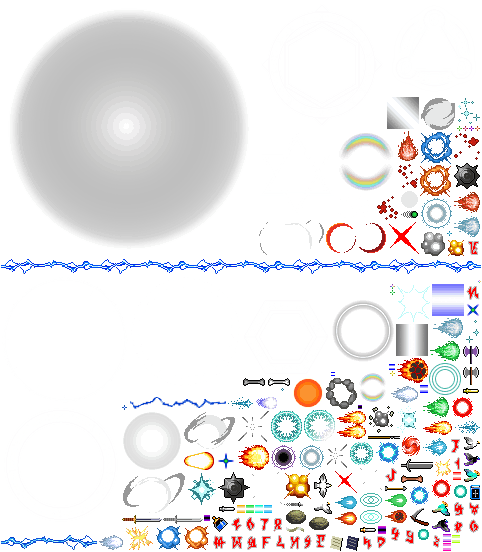
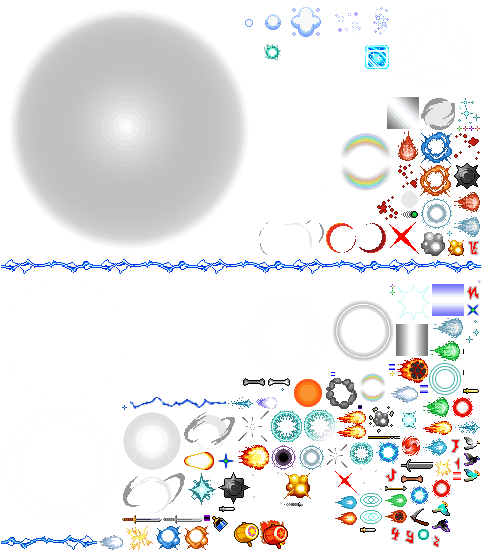
캐릭터 셀렉트 기능, 적 사망시 경험치 드랍 스킬 이펙트 편집
스킬 이펙트 편집, 적 죽을때 경험치 보석 드랍, 캐릭터 셀렉트 기능(불,얼음 전기) 추가

diff --git a/Manager/Item_Manager.py b/Manager/Item_Manager.py
@@ -1,6 +1,73 @@
 from pico2d import *
 
 
+class Item:
+    Name = None
+    x = 0
+    y = 0
+    width = 12
+    height = 18
+    pass
+
+class ExpStone(Item):
+    Type = None
+    Exp = None
+    Magnet = None
+    def __init__(self,Enemy_x=0, Enemy_y=0):
+        self.Magnet = False
+        self.x = Enemy_x
+        self.y = Enemy_y
+        self.Name = "EXP_STONE"
+        match self.Type:
+            case "GREEN":
+                self.Exp = 1
+            case "BLUE":
+                self.Exp = 5
+            case "RED":
+                self.Exp = 10
+            case "YEELOW":
+                self.Exp = 20
+
+    def Magnet_Player(self, Player_x, Player_y):
+        if self.Magnet:
+            pass
+
+    def Draw(self, Item_Image):
+        match self.Type:
+            case "GREEN":
+                print("그려짐")
+                Item_Image.clip_draw(51, 624- 96 - 12, 9,12,self.x,self.y,self.width, self.height)
+            case "BLUE":
+                Item_Image.clip_draw(51, 624 - 36 - 12, 9, 12, self.x, self.y,self.width, self.height)
+
+        pass
+
+class Item_manager:
+    Items = []
+    Items_image = None
+    expStone = ExpStone()
+    def Create_EXP_Stone(self, Enemy_name, Enemy_x, Enemy_y):
+        newExpStone = ExpStone()
+        if Enemy_name == "Waddle_dee":
+            newExpStone.Type = "GREEN"
+        elif Enemy_name == "kinght":
+            newExpStone.Type = "BLUE"
+
+        newExpStone.__init__(Enemy_x,Enemy_y)
+        self.Items.append(newExpStone)
+        del newExpStone
+
+    def Draw(self):
+        for item in self.Items:
+            match item.Name:
+                case "EXP_STONE":
+                    self.expStone = item
+                    self.expStone.Draw(self.Items_image)
+
+
+
+
+
 
 class Missile:
     name = "None"
@@ -25,6 +92,7 @@ class Missile:
     pass
 
 class ICE(Missile): # 가까운적 찾고 그냥 가로로 일직선 공격
+    A = 4
     def __init__(self, level=0, invers=False, charater_x=0, charater_y=0):
         self.x = charater_x
         self.y = charater_y
@@ -32,14 +100,14 @@ class ICE(Missile): # 가까운적 찾고 그냥 가로로 일직선 공격
         self.height = 24
         self.BulletRange = 1.0
         self.BulletSpeed = 5.0  # 투사채 속도
+        self.Attack = 10
         if invers:
             self.x_dir = 1
-        else :
+        else:
             self.x_dir = -1
             pass
 
         if level == 1:
-            self.Attack = 3
             self.DurationTime = 4.0
             pass
         elif level == 2:
@@ -54,10 +122,46 @@ class ICE(Missile): # 가까운적 찾고 그냥 가로로 일직선 공격
             del self
 
     def draw(self, Image):
-        Image.clip_draw(719, 616-41 - 24, 24,24,self.x,self.y, 24 * self.BulletRange, 24 * self.BulletRange)
+        Image.clip_draw(365, 552-45 - 24, 24,24,self.x,self.y, 24 * self.BulletRange, 24 * self.BulletRange)
         pass
 
 class HAMMER(Missile): # 해머 공격 == 뱀서의 도끼 공격
+    UpTime = None
+    def __init__(self, level=0, invers=False, charater_x=0, charater_y=0):
+        self.x = charater_x
+        self.y = charater_y
+        self.width = 24
+        self.height = 24
+        self.BulletRange = 1.0
+        self.BulletSpeed = 5.0  # 투사채 속도
+        self.Attack = 13
+        self.UpTime = 5.0
+        if invers:
+            self.x_dir = 1
+        else:
+            self.x_dir = -1
+            pass
+
+        if level == 1:
+            self.DurationTime = 4.0
+            pass
+        elif level == 2:
+            pass
+        elif level == 3:
+            pass
+
+
+
+def Move(self, MapEndLeft=0, MapEndRight=1280, MapEndBottom=720, MapEndTop=0):
+    if self.UpTime:
+        pass
+
+
+    self.x += self.x_dir
+    if self.x > MapEndRight:
+        del self
+    elif self.x < MapEndLeft:
+        del self
     pass
 
 
@@ -107,6 +211,7 @@ class Weapon:
                 new_missile.name = self.name
                 new_missile.__init__(self.level,charater_invers,charater_x,charater_y)
                 missile_manager.missiles.append(new_missile)
+                del new_missile
             elif self.name == "HAMMER":
                 pass
             self.shotTimer = 0.0

diff --git a/play_state.py b/play_state.py
@@ -1,14 +1,16 @@
 from pico2d import *
 import game_framework
 import random
-import Manager.Item_Manager
+import CharaterSelect_state
 from Character import Player
 from Character import Enemy
 from Manager.Item_Manager import Missile_manager
 from Manager.Item_Manager import Weapon
+from Manager.Item_Manager import Item_manager
 
 
 missile_manager = Missile_manager()
+item_manager = Item_manager()
 Weapons = []
 
 max_col = 40
@@ -25,16 +27,16 @@ enemy_responTimer = 0
 
 
 def enter():
-    global BG_tile_image, tiles, kirby, Enemys, enemy_image, UI_image, Weapons
-
+    global BG_tile_image, tiles, kirby, Enemys, enemy_image, UI_image, Weapons,item_manager
     BG_tile_image = load_image("assets/img/tilesets/ForestTexturePacked.png")
     UI_image = load_image("assets/Ui/UI.png")
-    kirby.image = load_image("assets/img/Kirby/Ice_Kirby_empty.png")
     enemy_image= load_image("assets/img/Enemy/Normal_Enemy.png")
-    missile_manager.missiles_image = load_image("assets/img/Kirby/Ice_Kirby_empty.png")
+    missile_manager.missiles_image = load_image("assets/img/Effect/vfx.png")
+    item_manager.Items_image = load_image("assets/Ui/items.png")
 
-    kirby.type = "ICE"
-    kirby.type.__init__()
+    kirby.type = CharaterSelect_state.Type
+    kirby.__init__()
+    del CharaterSelect_state.Type
 
     newWeapons = Weapon()
     newWeapons.name = "ICE"
@@ -43,8 +45,6 @@ def enter():
 
     for s_Enemy in Enemys :
         s_Enemy.name = "Waddle_dee"
-        s_Enemy.x = random.randint(0, 1280)
-        s_Enemy.y = random.randint(0, 720)
         s_Enemy.__init__()
         pass
 def exit():
@@ -53,6 +53,7 @@ def exit():
     pass
 
 def update():
+    global enemy_responTimer, Timer
     kirby.Move()
     if kirby.invisivleTime > 0 :
         kirby.invisivleTime -= 0.03
@@ -66,6 +67,7 @@ def update():
                                         s_Enemy.y + s_Enemy.height // 2,
                                         s_Enemy.y - s_Enemy.height // 2))
         if s_Enemy.Hp <= 0 :
+            item_manager.Create_EXP_Stone(s_Enemy.name, s_Enemy.x, s_Enemy.y)
             Enemys.remove(s_Enemy)
         kirby.check_Enemy_Coll(s_Enemy.x - s_Enemy.width//2,
                                s_Enemy.x + s_Enemy.width//2,
@@ -76,7 +78,6 @@ def update():
         weapon.shot(kirby.x, kirby.y, kirby.invers, missile_manager)
 
 
-    global enemy_responTimer, Timer
     if Timer > 30.0:
         if enemy_responTimer >= 3.0:
             newEnemy = Enemy()
@@ -97,9 +98,8 @@ def draw():
         pass
 
     missile_manager.draw()
+    item_manager.Draw()
 
-    # 경험치 출력
-    kirby.draw()
 
     for s_Enemy in Enemys:
         s_Enemy.draw(enemy_image)
@@ -107,21 +107,26 @@ def draw():
         UI_image.clip_draw(422, 512-158 -9, 9,9, s_Enemy.x, s_Enemy.y + 10, s_Enemy.Hp/s_Enemy.MaxHp * 30,4)
         pass
 
-    # 체력 출력
-    UI_image.clip_draw(280, 512-158 -9, 9,9, kirby.x, kirby.y - 30, 60,8)
-    UI_image.clip_draw(422, 512-158 -9, 9,9, kirby.x, kirby.y - 30, kirby.Hp/kirby.MaxHp * 60,8)
+    kirby.draw()
 
-    # 아이템 출력
-    UI_image.clip_draw(175,512-98 - 32, 96,32 , 100, 720 - 75, 200, 200//3)
-
-    # 경험치 창 출력
-    UI_image.clip_draw(374, 512-249 -23, 10,23, 1280//2,700, 1280,40)
+    draw_UI()
     update_canvas()
 
-    Timer += 0.03
-    delay(0.03)
+    Timer += 0.01
+    delay(0.01)
     # fill here
     pass
+
+
+def draw_UI():
+    # 체력 출력
+    UI_image.clip_draw(280, 512 - 158 - 9, 9, 9, kirby.x, kirby.y - 30, 60, 8)
+    UI_image.clip_draw(422, 512 - 158 - 9, 9, 9, kirby.x, kirby.y - 30, kirby.Hp / kirby.MaxHp * 60, 8)
+    # 아이템 출력
+    UI_image.clip_draw(175, 512 - 98 - 32, 96, 32, 100, 720 - 75, 200, 200 // 3)
+    # 경험치 창 출력
+    UI_image.clip_draw(374, 512 - 249 - 23, 10, 23, 1280 // 2, 700, 1280, 40)
+
 
 def handle_events():
     events = get_events()
@@ -129,9 +134,7 @@ def handle_events():
     for event in events:
         if event.type == SDL_QUIT:
             game_framework.quit()
-
-
-
-
-
-
+def pause():
+    pass
+def resume():
+    pass

diff --git a/CharaterSelect_state.py b/CharaterSelect_state.py
@@ -18,6 +18,7 @@ start_Button = None
 select_Button = None
 cancel_Button = None
 
+Type = "Test"
 kirbys = Kirby_UI()
 select_Number = -1
 
@@ -34,8 +35,8 @@ def enter():
     pass
 
 def exit():
-    global bg_image
-    del bg_image
+    global bg_image,UI_button_image, box_bg_image
+    del bg_image, UI_button_image,box_bg_image
     # fill here
     pass
 
@@ -64,13 +65,26 @@ def draw():
     pass
 
 def handle_events():
-    global select_Number
+    global select_Number, Type
     events = get_events()
     for event in events:
         if event.type == SDL_MOUSEBUTTONDOWN:
-            print(event.x , event.y)
-            if event.x > 800 and event.x < 900 and event.y > 540 and event.y < 600 and select_Number != -1:
+            print(event.x, event.y)
+            if event.x > 800 and event.x < 900 and event.y > 540 and event.y < 600 and select_Number != -1: # 캐릭터 선택하고 다음 시작
+                match select_Number:
+                    case 0:
+                        Type = "FIRE"
+                    case 1:
+                        Type = "ICE"
+                    case 2:
+                        Type = "PLASMA"
+                    case 3:
+                        Type = "HAMMER"
+                    case 4:
+                        Type = "SWORD"
                 game_framework.change_state(play_state)
+
+                pass
             else:
                 for select in range(0,5):
                     if event.x > 1280//2 - 250 + select * 125 - 35 and event.x < 1280//2 - 250 + select * 125 + 35 and event.y > 150 and event.y < 250 :

diff --git a/Character.py b/Character.py
@@ -44,6 +44,12 @@ class Player:
     invers = False # 캐릭터 오른쪽, 왼쪽
 
     def __init__(self):
+        if self.type == "ICE":
+            self.image = load_image("assets/img/Kirby/Ice_Kirby_empty.png")
+        elif self.type == "FIRE":
+            self.image = load_image("assets/img/Kirby/Fire_Kirby_empty.png")
+        elif self.type == "PLASMA":
+            self.image = load_image("assets/img/Kirby/PLASMA_Kirby_empty.png")
             pass
 
     def check_Enemy_Coll(self, enemy_left, enemy_right, enemy_top, enemy_bottom, enemy_Attack):
@@ -60,7 +66,7 @@ class Player:
             if self.state == "IDLE":
                 self.frame = self.frame % 2
                 if not self.invers:
-                    self.image.clip_draw(0 + self.frame * 34, 616 - 80, 34, 33, self.x, self.y, self.width,self.height)
+                    self.image.clip_draw(0 + self.frame * 35, 616 - 80, 35, 33, self.x, self.y, self.width,self.height)
                 else :
                     self.image.clip_draw(0 + self.frame * 34, 616 - 40, 34, 33, self.x, self.y, self.width,self.height)
 
@@ -106,8 +112,6 @@ class Player:
             pass
 
 
-    def ExpMagnet(self):
-        pass
     def levelUP(self):
         if self.Exp >= self.MaxExp:
             self.Exp = 0

diff --git a/mygame.py b/mygame.py
@@ -6,7 +6,7 @@ import play_state
 import CharaterSelect_state
 
 pico2d.open_canvas(1280,720)
-game_framework.run(logo_state)
+game_framework.run(CharaterSelect_state)
 pico2d.clear_canvas()
 
 # fill here
